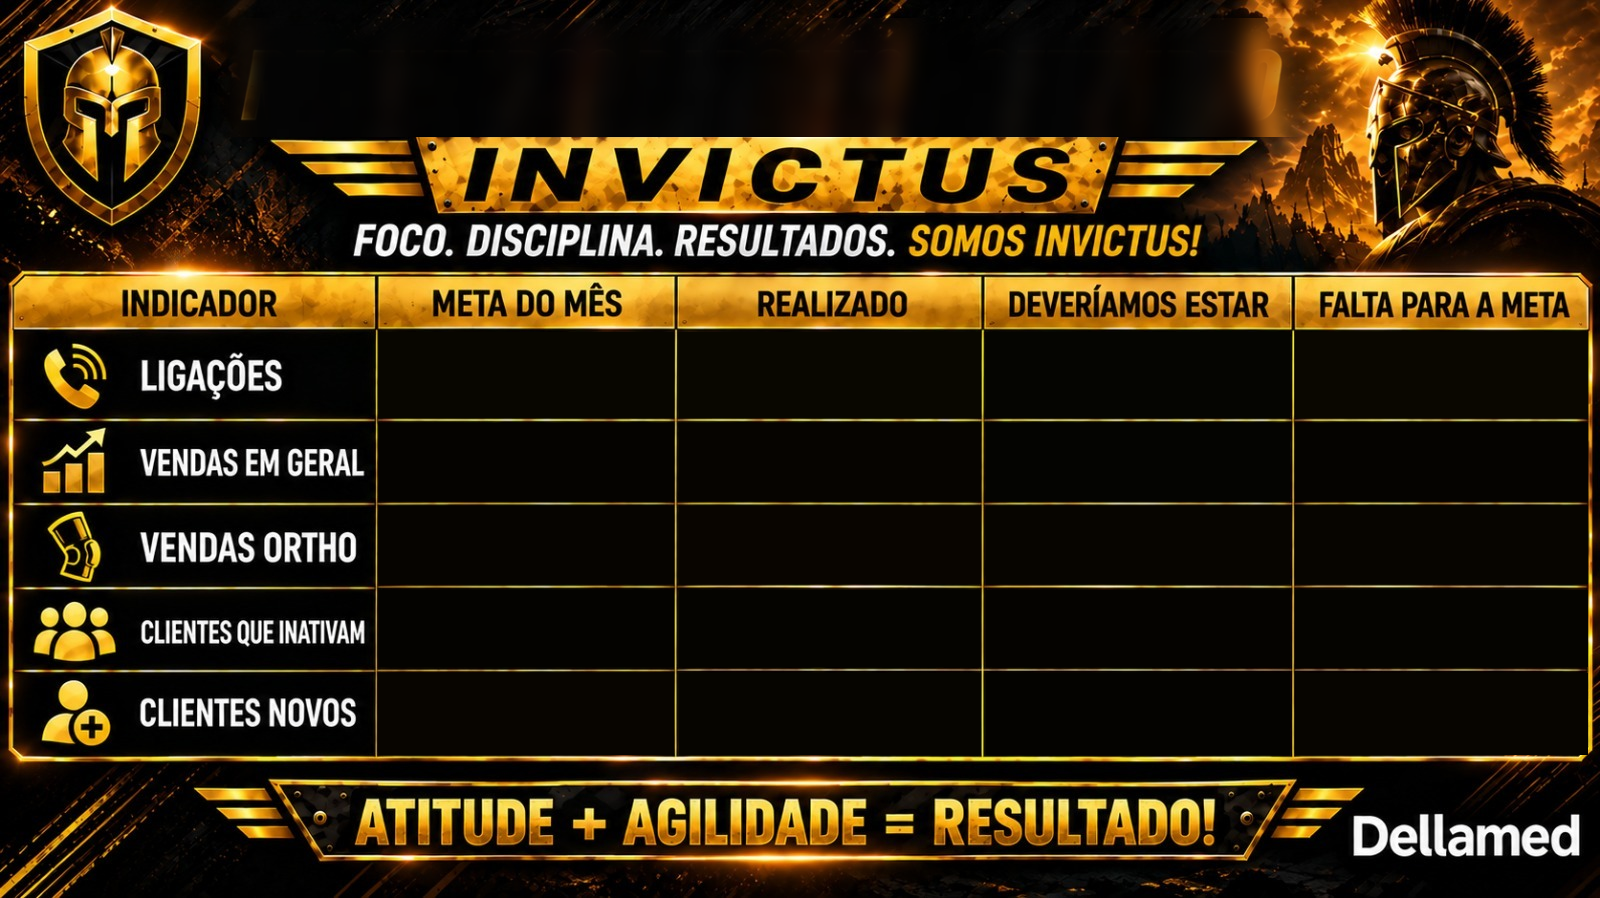
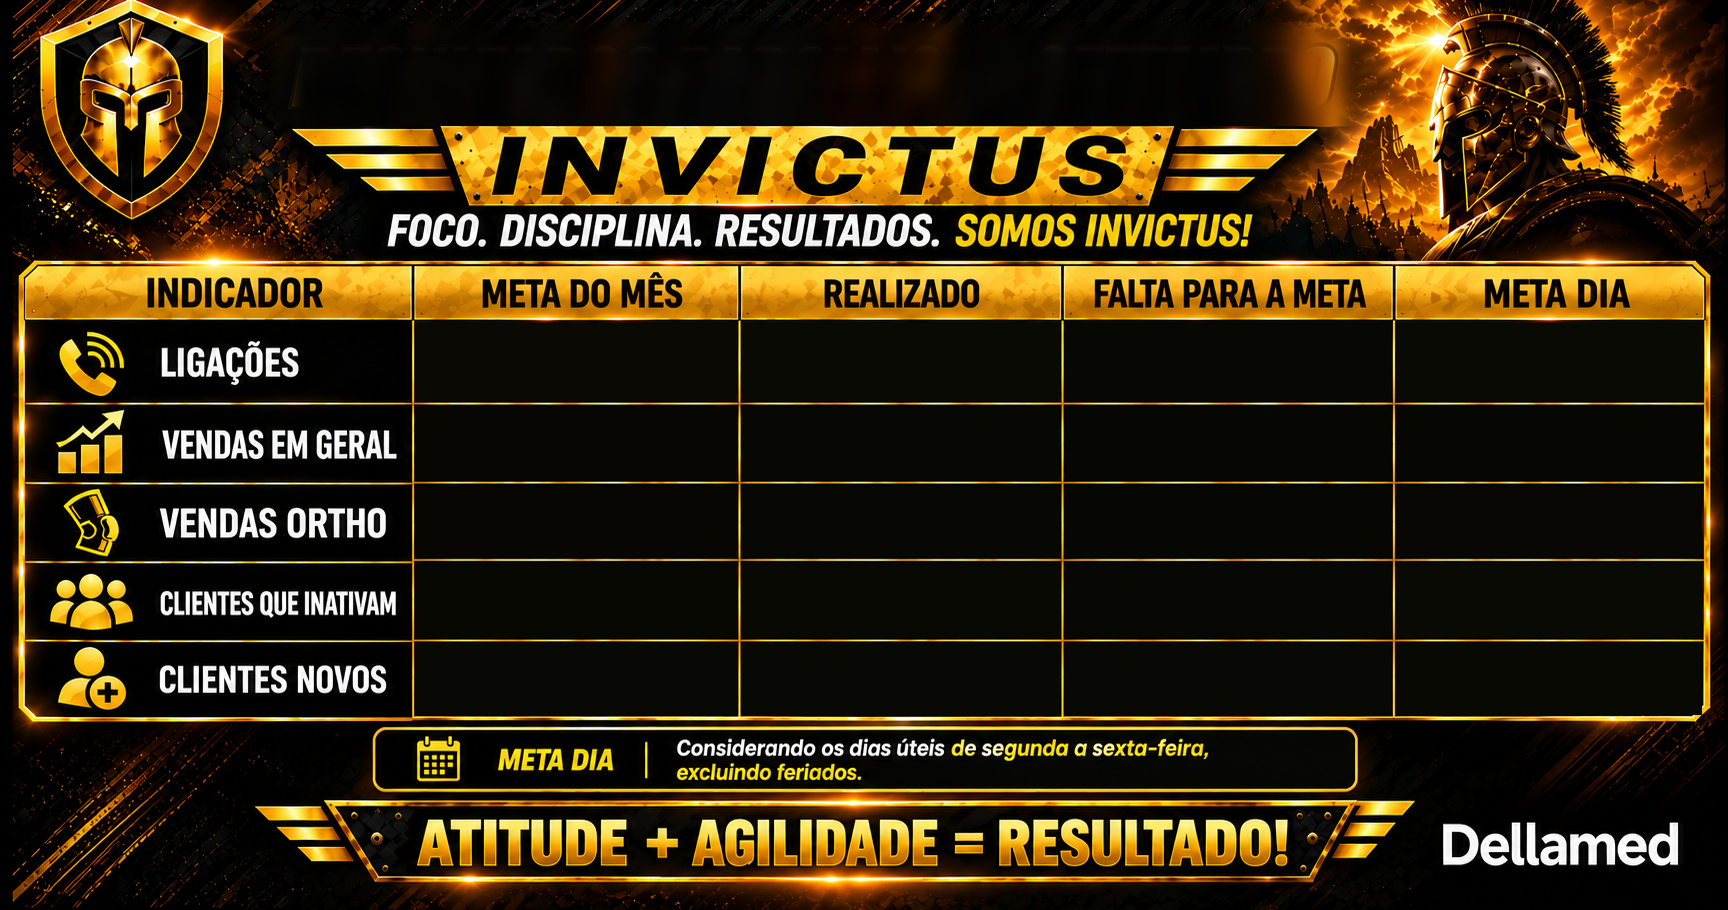
Add files via upload

diff --git a/invictus.js b/invictus.js
@@ -10,10 +10,11 @@
   var statusEl = document.getElementById("status");
   var params = new URLSearchParams(location.search);
 
-  /* ---------------- Geometria da arte (pixels do fundo 1600x898) ---------------- */
-  var COLS = [526, 829, 1137, 1441];          // centro: Meta, Realizado, Deveríamos, Falta
-  var COL_W = 280;                             // largura útil de cada célula
-  var ROWS = [379, 465, 548, 632, 717];        // centro vertical de cada linha
+  /* ---------------- Geometria da arte (pixels do fundo 1728x910) ---------------- */
+  var LARG = 1728, ALT = 910;
+  var COLS = [575, 900, 1228, 1549];          // centro: Meta, Realizado, Falta, Meta dia
+  var COL_W = 295;                             // largura útil de cada célula
+  var ROWS = [364, 446, 524, 603, 682];        // centro vertical de cada linha
   var CORES = { branco: "#ffffff", amarelo: "#fff21a", vermelho: "#ff2323", verde: "#35e05a" };
   var MESES = ["JANEIRO", "FEVEREIRO", "MARÇO", "ABRIL", "MAIO", "JUNHO", "JULHO",
                "AGOSTO", "SETEMBRO", "OUTUBRO", "NOVEMBRO", "DEZEMBRO"];
@@ -50,15 +51,16 @@
   function calendario() {
     var h = hoje(), ano = h.getFullYear(), mes = h.getMonth();
     if (CFG.mesReferencia) { var a = CFG.mesReferencia.split("-"); ano = +a[0]; mes = +a[1] - 1; }
-    var fer = feriados(ano), total = 0, decorridos = 0;
+    var fer = feriados(ano), total = 0, decorridos = 0, restantes = 0;
     var ultimo = new Date(ano, mes + 1, 0).getDate();
     for (var dia = 1; dia <= ultimo; dia++) {
       var d = new Date(ano, mes, dia), sem = d.getDay();
       if (sem === 0 || sem === 6 || fer[iso(d)]) continue;
       total++;
       if (d < h || (CFG.contarHojeComoDecorrido && d.getTime() === h.getTime())) decorridos++;
+      if (d >= h) restantes++;                 // dias úteis de hoje (inclusive) até o fim do mês
     }
-    return { ano: ano, mes: mes, total: total, decorridos: decorridos, ultimo: ultimo };
+    return { ano: ano, mes: mes, total: total, decorridos: decorridos, restantes: restantes, ultimo: ultimo };
   }
   function serialQlik(d) { // nº de dias desde 30/12/1899, como no Qlik
     return Math.round((Date.UTC(d.getFullYear(), d.getMonth(), d.getDate()) - Date.UTC(1899, 11, 30)) / 864e5);
@@ -100,8 +102,8 @@
   function desenharTitulo(texto) {
     ctx.save();
     var t = 96;
-    do { ctx.font = "700 " + t + "px Oswald"; t -= 2; } while (ctx.measureText(texto).width > 1010);
-    ctx.translate(762, 120);
+    do { ctx.font = "700 " + t + "px Oswald"; t -= 2; } while (ctx.measureText(texto).width > 1040);
+    ctx.translate(815, 113);
     ctx.transform(1, 0, -0.2, 1, 0, 0);         // itálico
     ctx.textAlign = "center";
     ctx.textBaseline = "alphabetic";
@@ -118,25 +120,29 @@
   }
 
   function desenhar(dados, cal) {
-    ctx.drawImage(fundo, 0, 0, 1600, 898);
+    ctx.drawImage(fundo, 0, 0, LARG, ALT);
     desenharTitulo("RESULTADOS PARCIAIS -- " + MESES[cal.mes]);
 
     ctx.textAlign = "center";
     ctx.textBaseline = "middle";
     dados.forEach(function (d, i) {
       var y = ROWS[i];
-      var fator = cal.total ? cal.decorridos / cal.total : 0;
-      var ritmo = d.meta == null ? null : d.meta * fator;
-      if (ritmo != null && d.formato !== "moeda") ritmo = Math.round(ritmo);
       var falta = (d.meta == null || d.realizado == null) ? null : d.meta - d.realizado;
+      // Meta dia = o que falta ÷ dias úteis restantes (seg-sex, sem feriados, contando hoje)
+      var metaDia = null;
+      if (falta != null && falta > 0 && cal.restantes > 0) {
+        metaDia = falta / cal.restantes;
+        if (d.formato !== "moeda") metaDia = Math.ceil(metaDia);
+      }
 
-      textoAjustado(fmt(d.meta, d.formato), COLS[0], y, COL_W, 50, CORES.branco);
-      textoAjustado(fmt(d.realizado, d.formato), COLS[1], y, COL_W, 50, CORES.amarelo);
-      textoAjustado(fmt(ritmo, d.formato), COLS[2], y, COL_W, 50, CORES.branco);
+      textoAjustado(fmt(d.meta, d.formato), COLS[0], y, COL_W, 52, CORES.branco);
+      textoAjustado(fmt(d.realizado, d.formato), COLS[1], y, COL_W, 52, CORES.amarelo);
       if (falta != null && falta <= 0) {
-        textoAjustado("META BATIDA!", COLS[3], y, COL_W, 46, CORES.verde);
+        textoAjustado("META BATIDA!", COLS[2], y, COL_W, 46, CORES.verde);
+        textoAjustado("—", COLS[3], y, COL_W, 52, CORES.verde);
       } else {
-        textoAjustado(fmt(falta, d.formato), COLS[3], y, COL_W, 50, CORES.vermelho);
+        textoAjustado(fmt(falta, d.formato), COLS[2], y, COL_W, 52, CORES.vermelho);
+        textoAjustado(fmt(metaDia, d.formato), COLS[3], y, COL_W, 52, CORES.branco);
       }
     });
 
@@ -144,11 +150,11 @@
     var agora = new Date();
     var rod = "Atualizado em " + agora.toLocaleDateString("pt-BR") + " às " +
       agora.toLocaleTimeString("pt-BR", { hour: "2-digit", minute: "2-digit" }) +
-      "  ·  dia útil " + cal.decorridos + " de " + cal.total;
+      "  ·  " + cal.restantes + " dias úteis restantes de " + cal.total;
     ctx.font = "600 17px Oswald";
     ctx.textAlign = "left";
-    ctx.fillStyle = "rgba(0,0,0,.7)"; ctx.fillText(rod, 19, 883);
-    ctx.fillStyle = "#d8c07a"; ctx.fillText(rod, 18, 882);
+    ctx.fillStyle = "rgba(0,0,0,.7)"; ctx.fillText(rod, 19, 903);
+    ctx.fillStyle = "#d8c07a"; ctx.fillText(rod, 18, 902);
   }
 
   /* ---------------- Estado e renderização ---------------- */

diff --git a/index.html b/index.html
@@ -11,7 +11,7 @@
 </head>
 <body>
   <div id="palco">
-    <canvas id="placar" width="1600" height="898"></canvas>
+    <canvas id="placar" width="1728" height="910"></canvas>
   </div>
 
   <div id="barra">

diff --git a/invictus.css b/invictus.css
@@ -30,7 +30,7 @@ html, body {
   max-height: 100vh;
   width: auto;
   height: auto;
-  aspect-ratio: 1600 / 898;
+  aspect-ratio: 1728 / 910;
 }
 
 #barra {
